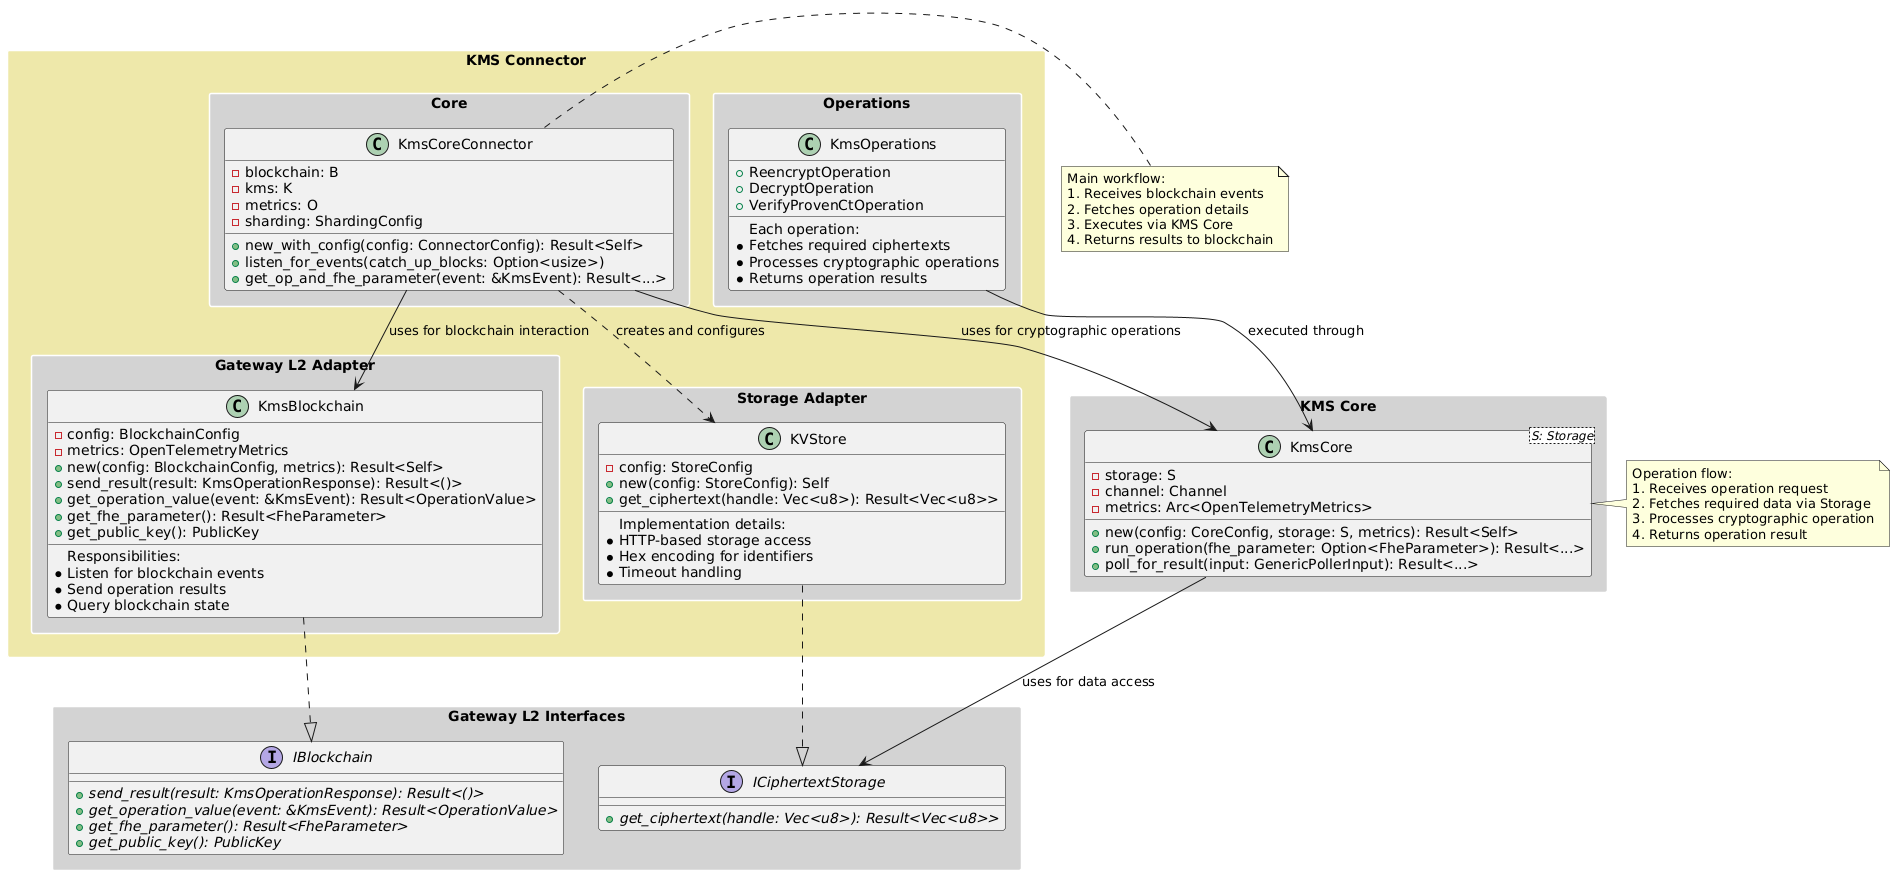
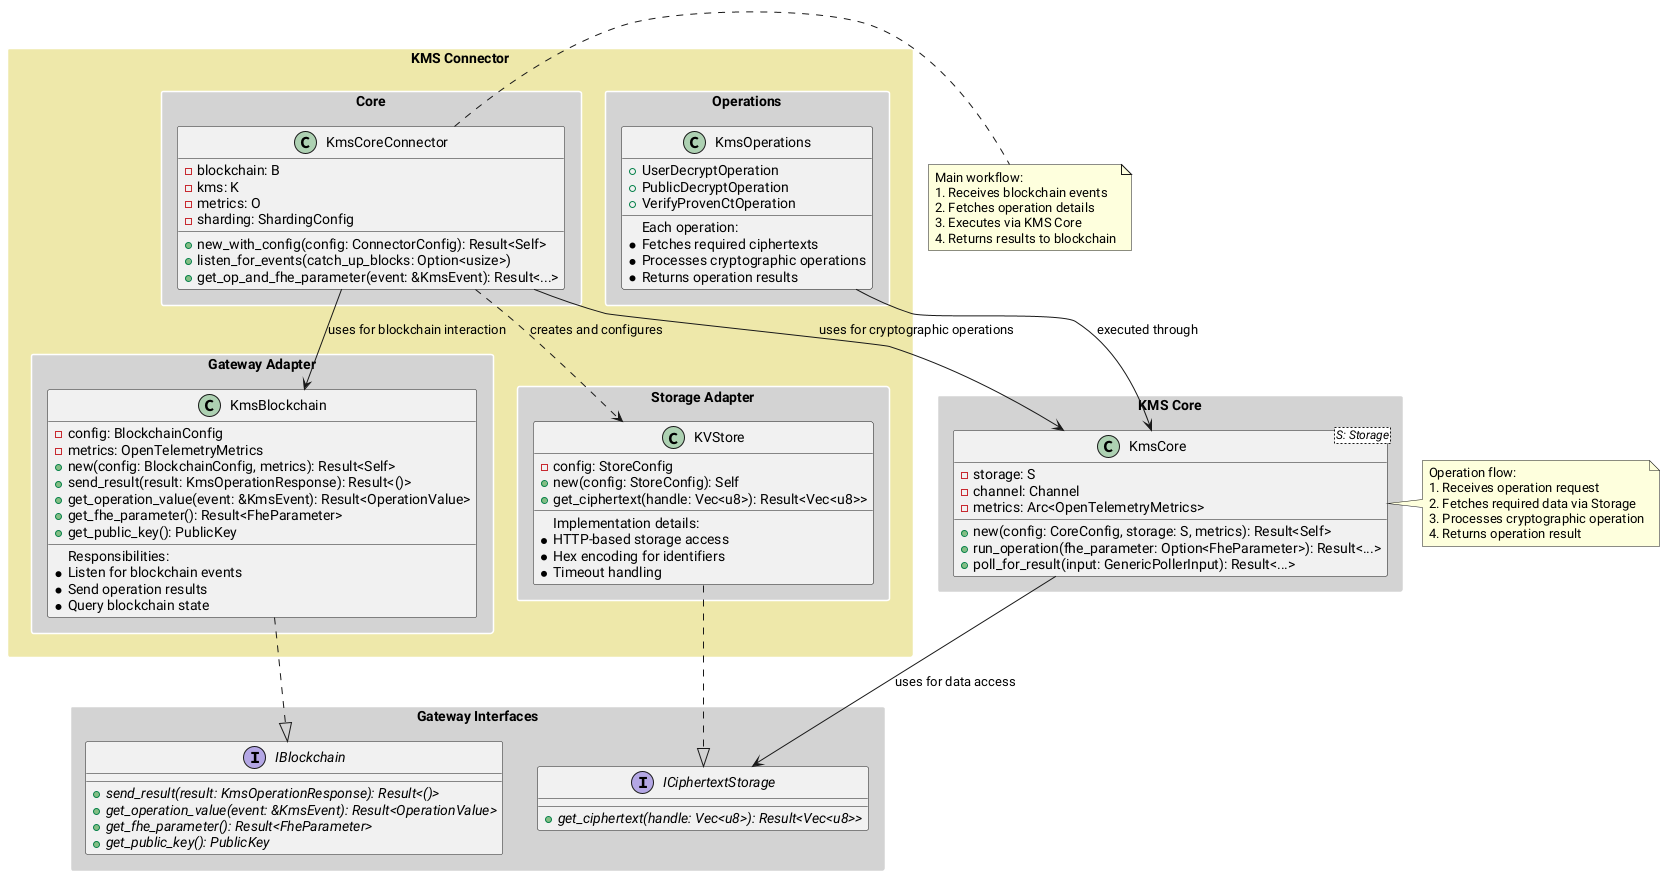
docs: update documentation (#44)

diff --git a/README.md b/README.md
@@ -1,20 +1,22 @@
 # KMS Connector
 
-KMS Connector is a Rust-based service that connects the KMS Core with the fhevm Gateway (Arbitrum) smart contracts, handling decryption requests and key management operations.
+KMS Connector is a Rust-based service that connects the KMS Core with the fhevm Gateway smart contracts, handling decryption requests and key management operations.
 
 ## Features
 
 - Event-driven architecture with MPSC orchestration
 - Support for public/user decryption operations
-- Key generation with extended finality support
-- CRS generation and management
-- Operation status notifications
-- Arbitrum-specific finality rules
 - CLI interface for configuration management and validation
 - S3 ciphertext retrieval with configurable endpoint support
-- Non-failable S3 URL processing with graceful fallbacks
 - Optional S3 configuration for flexible deployment scenarios
 - Multiple wallet initialization options (AWS KMS, private key)
+
+### Upcoming
+
+- Key generation with extended finality support
+- CRS generation and management
+- Arbitrum-specific finality rules
+- Operation status notifications
 
 ## CLI Usage
 
@@ -144,14 +146,14 @@ The KMS Connector supports flexible configuration through both TOML files and en
    > **Note on Nested Configuration**: For nested configuration structures like `s3_config` and `aws_kms_config`, use double underscores (`__`) in environment variables to represent the nesting. For example, `s3_config.region` in TOML becomes `KMS_CONNECTOR_S3_CONFIG__REGION` as an environment variable.
 
    # Start the connector without a config file
-   cargo run --bin kms-connector start
+   cargo run -- start
    ```
 
 2. **Config File Only**
 
    ```bash
    # Use a TOML config file
-   cargo run --bin kms-connector start --config ./config/environments/config-base.toml
+   cargo run -- start --config ./config/environments/config-base.toml
    ```
 
 3. **Combined Configuration**
@@ -162,7 +164,7 @@ The KMS Connector supports flexible configuration through both TOML files and en
    export KMS_CONNECTOR_CHAIN_ID="31337"
 
    # Use config file for other values
-   cargo run --bin kms-connector start --config ./config/environments/config-base.toml
+   cargo run -- start --config ./config/environments/config-base.toml
    ```
 
 ### Configuration Precedence
@@ -249,24 +251,7 @@ endpoint = "http://localhost:9876"
 
 ### S3 URL Processing
 
-The connector supports multiple S3 URL formats:
-
-1. **Virtual-hosted style**: `bucket-name.s3.region.amazonaws.com`
-2. **Path-style**: `s3.region.amazonaws.com/bucket-name`
-3. **Custom endpoints**: with region and bucket in path segments
-
-The system will extract the region, endpoint URL, and bucket name directly from the URL when possible. If URL parsing fails, it will gracefully fall back to the configured values.
-
-### Non-Failable Design
-
-The S3 URL processing is designed to be non-failable:
-
-- Returns `Option<(String, String, String)>` instead of `Result`
-- Uses warning logs instead of errors for non-critical issues
-- Gracefully falls back to provided configuration values
-- Continues processing other URLs even when one fails
-
-This approach ensures that temporary issues with S3 URL formats don't disrupt the high-frequency operation of the KMS Connector.
+The connector relies on the S3 URLs provided by the Gateway's events being properly formatted. If no URLs are provided, it will fall back to the optional S3 configured values.
 
 ### Optional Configuration
 
@@ -348,7 +333,7 @@ The connector uses a two-layer architecture to separate Gateway interaction from
          └─────────┬───────────────┘
                    │
                    ▼
-        [Arbitrum Gateway Contracts]
+           [Gateway Contracts]
         Decryption, GatewayConfig
 ```
 
@@ -397,6 +382,7 @@ impl<P: Provider> DecryptionAdapter<P> {
             .await
     }
 }
+```
 
 ## Key Points
 
@@ -427,7 +413,7 @@ See [CHANGELOG.md](./changelog.md) for current implementation status.
 ### Prerequisites
 
 - Rust 1.86+
-- Access to Arbitrum L2 node
+- Access to a node of the Gateway's chain
 - KMS Core instance
 
 ### Building

diff --git a/design_docs/connector.md b/design_docs/connector.md
@@ -147,14 +147,9 @@ After analyzing the codebase, it is recommended to implement a brand new connect
 
 4. **Event-Driven Architecture Requirements**:
 
-    - **New**: Asynchronous event handling with MPSC-based orchestration for multiple contract events. It's suggested to have an improved version of shared Orchestrator component as developed by GW team.
+    - **New**: Asynchronous event handling with MPSC-based orchestration for multiple contract events.
 
-## **Recommended Solution**
-
-1. Create new crate `kms-connector/`
-2. Implement new architecture from scratch (see images bellow)
-3. Keep both (Old/New) connectors code in the kms-core repo during transition
-4. Deprecate Old connector once migration is complete
+## **Implemented Solution**
 
 This is a KMS Connector-focused extract from the general system diagram as presented here (but with corrections for L2 storage) [SEE IMAGE HERE](https://github.com/zama-ai/fhevm-relayer/blob/main/out/design-docs/full-architecture-highe-level-interactions/gateway-external-connections.svg)
 
@@ -173,7 +168,6 @@ package "Gateway" {
     component "Access Control" as gateway_accessControl
     component "RPC" as gateway_rpc
     () "WebSocket" as gateway_ws
-    () "HTTP" as gateway_http
 }
 
 package "Kms Core" as kmsCore {
@@ -186,8 +180,8 @@ package "Kms Core" as kmsCore {
 
 package "KMS connector" #PaleGoldenRod {
     package "Gateway Adapter" {
-        component "Event Listener" as connector_eventListener
-        component "Tx Sender" as connector_txSender
+        component "EventAdapter" as connector_eventAdapter
+        component "alloy::Provider" as connector_provider
     }
 
     package "Kms Core Adapter" {
@@ -198,7 +192,6 @@ package "KMS connector" #PaleGoldenRod {
 }
 
 ' Internal Gateway connections
-gateway_rpc --- gateway_http
 gateway_rpc --- gateway_ws
 gateway_decryption --- gateway_rpc
 gateway_config --- gateway_rpc
@@ -211,22 +204,22 @@ kmsCore_crsgen -- kmsCore_api
 kmsCore_decryption -- kmsCore_api
 
 ' KMS Connector to Gateway connections
-connector_eventListener ..> gateway_ws: Listen for events
-connector_txSender --> gateway_http: Send transactions
+connector_eventAdapter ..> gateway_ws: Listen for events
+connector_provider --> gateway_ws: Send transactions
 
 ' KMS Connector to KMS Core connections
 connector_decrypt --> kmsCore_grpc: Decrypt requests
 connector_keygen --> kmsCore_grpc: Key generation
 connector_crsgen --> kmsCore_grpc: CRS generation
 
-note right of connector_eventListener
+note right of connector_eventAdapter
   Listens for:
   - Decryption requests
   - Key generation events
   - CRS generation events
 end note
 
-note right of connector_txSender
+note right of connector_provider
   Sends:
   - Operation results
   - Key generation results
@@ -245,7 +238,7 @@ end note
 
 ```
 
-Detailed KMS Connector diagram reflecting current L2 smart-contract interfaces (pls note that `reencryption` is renamed to `userDecryption`) Also IGatewayConfig SC interface is about to be finalized... so I put my vision to be clarified once finalization is done
+Detailed KMS Connector diagram reflecting current smart-contract interfaces (pls note that `reencryption` is renamed to `userDecryption`). 
 
 ```plantuml
 
